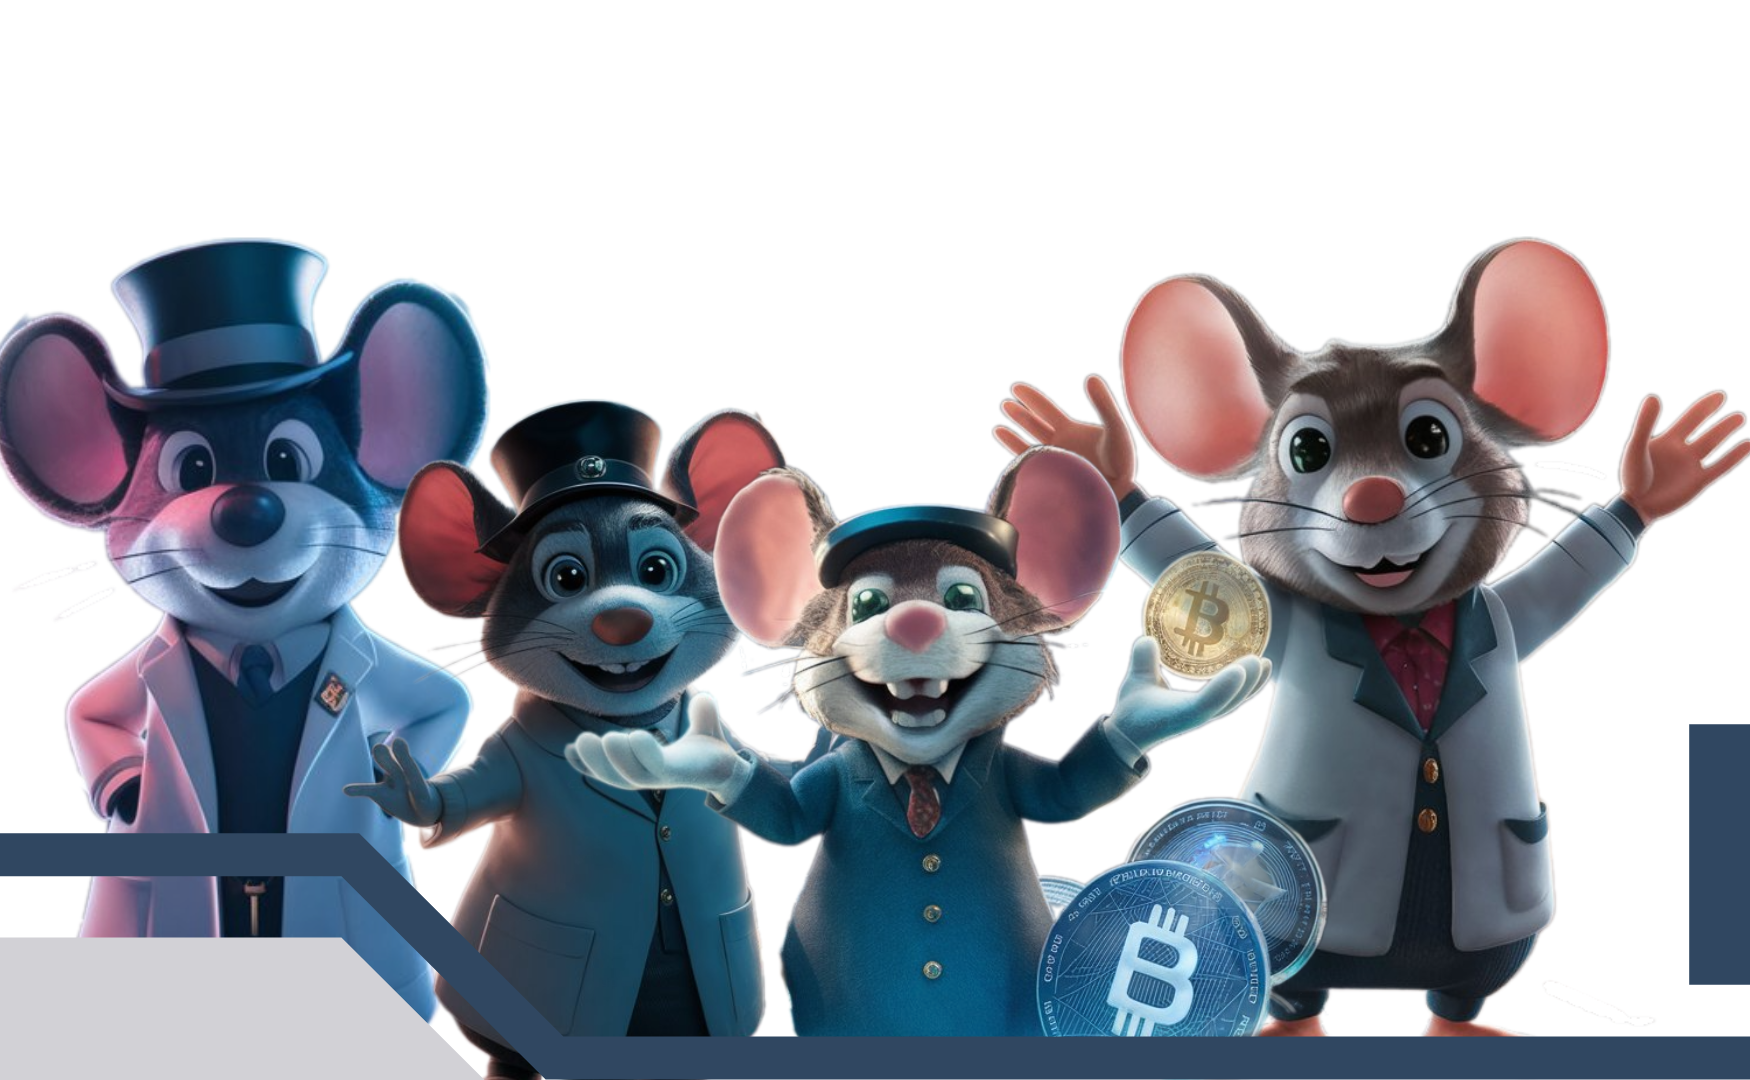
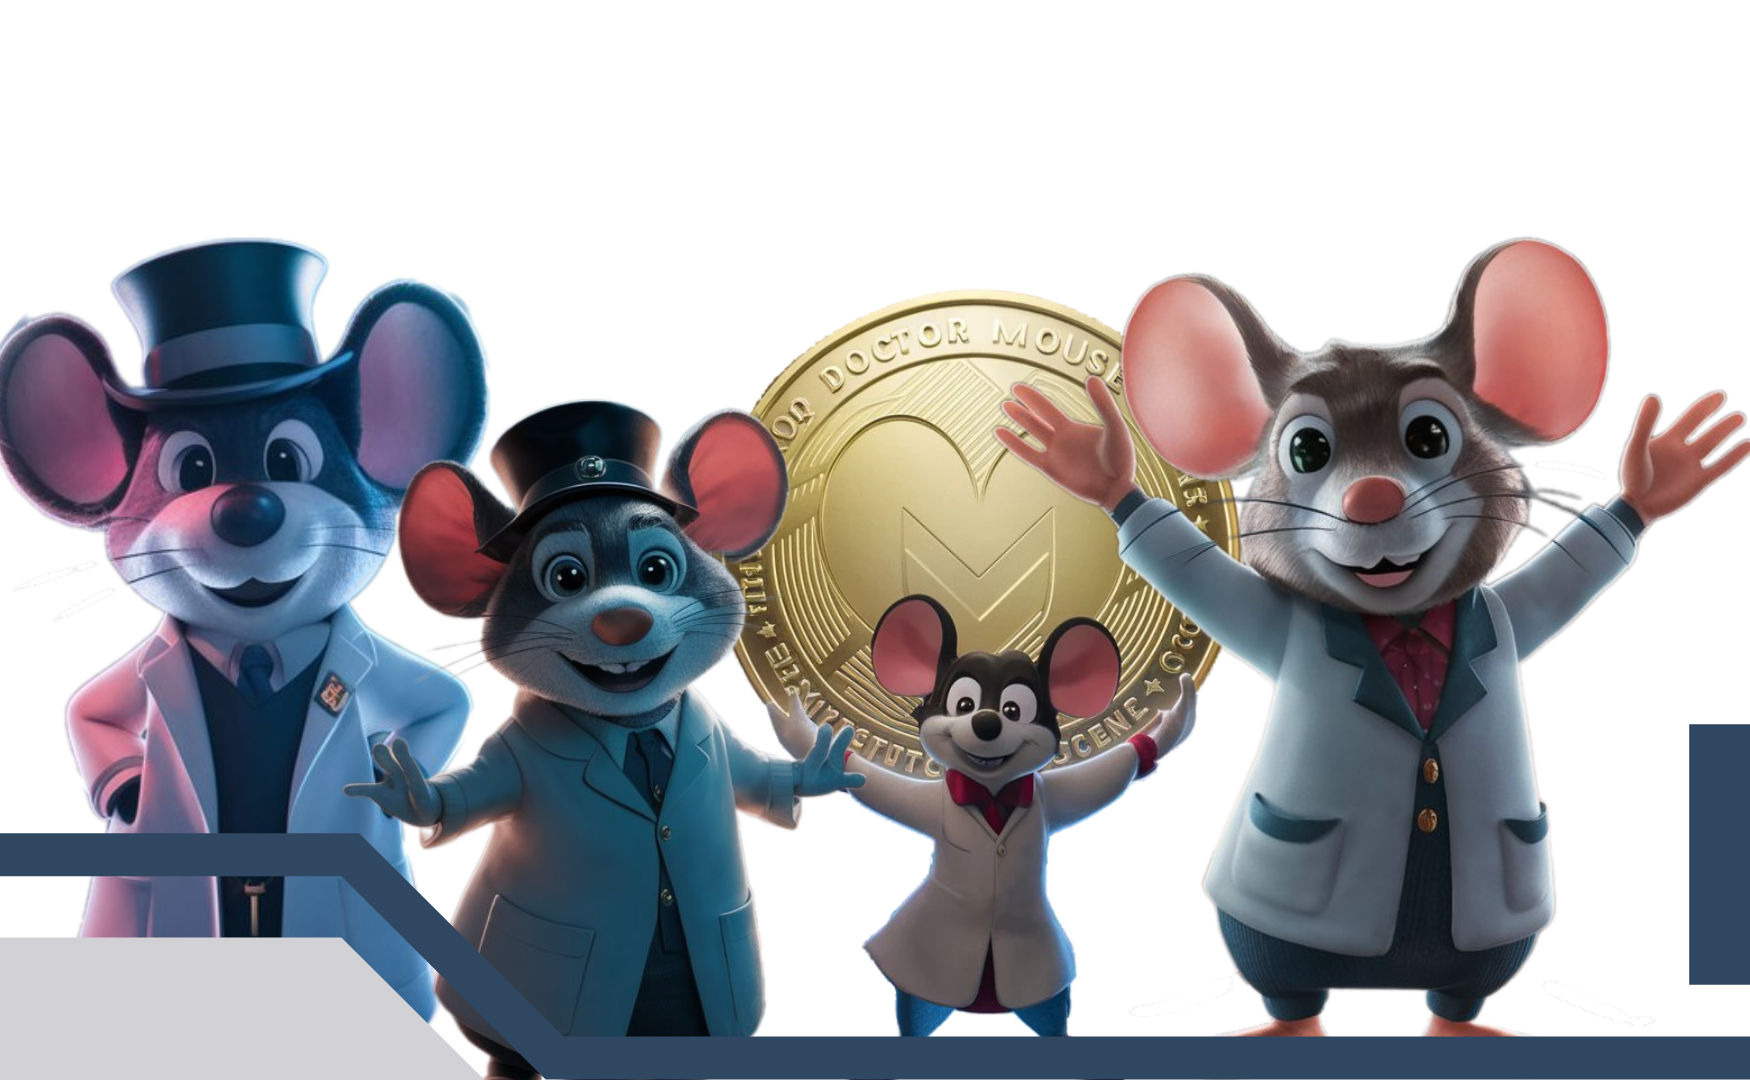
updated desing

Changed region(s): [[0.3086, 0.2444, 0.7714, 0.9778]]

diff --git a/src/Components/DoctorMouseLandingPage.jsx b/src/Components/DoctorMouseLandingPage.jsx
@@ -2,7 +2,10 @@ import 'tailwindcss/tailwind.css';
 import '../App.css';
 import '../thirdPage.css'
 import { FontAwesomeIcon } from '@fortawesome/react-fontawesome';
-import { faTelegram, faYoutube, faRedditAlien, faLinkedin, faInstagram, faFacebook, faTwitter } from '@fortawesome/free-brands-svg-icons';
+import { faTelegram, faXTwitter } from '@fortawesome/free-brands-svg-icons';
+import dexScreenerIcon from '../assets/dexScreenerIcon.png'
+import solScanIcon from '../assets/solanaIcon.png'
+import solScanIconTop from '../assets/solScanIconTop.png'
 import BackgroundVideo from '../assets/Videos/BackgroundVideo.mp4';
 import Logo from '../assets/rmFrh2fKMNYODW4ac7Em5-transformed.png'; // Adjust the path to your logo file
 import QRCode from '../assets/QRCode.png'; // Adjust the path to your QR code image file
@@ -10,7 +13,9 @@ import QRCodeButtom from '../assets/QRCodeButtom.png'; // Adjust the path to you
 import BackgroundImagePage3 from '../assets/backgroundImagePage3.svg'
 import backgroundImage from '../assets/secondpageBgImage.svg'; // Ensure to provide the correct path
 import MousesIcon from '../assets/mousesIcons.png'; // Ensure to provide the correct path
-import characterImage5 from '../assets/character15.png'; // Ensure to provide the correct path
+import doctormouseCircularAnimation from '../assets/doctormousecoinpresenting (2).png'; // Ensure to provide the correct path
+import characterImage5 from '../assets/characterpng8.png'; // Ensure to provide the correct path
+import characterImage6 from '../assets/characterpng7.png'; // Ensure to provide the correct path
 import teteCoinLogo from '../assets/coinImage.png';
 import fourthpagebgImage from '../assets/fourthpagebgimage.svg'
 import fifthpagebgImage from '../assets/fifthpagebgimage.jpeg'
@@ -24,7 +29,7 @@ function DoctorMouseLandingPage() {
 
 
     const [certificatecCopied, setCertificateCopied] = useState(false);
-    const certificateCode = 'GAVXJIJDVOVFQXOGKSTEXV7XGNK5WDSBNGCHNUUKQ';
+    const certificateCode = 'EVS9EoZoxaYZnk8k7jCukfkgG8ZtiFwVtDHRLV4gy8Uz ';
 
     const copyToClipboard = () => {
         navigator.clipboard.writeText(certificateCode).then(() => {
@@ -49,7 +54,7 @@ function DoctorMouseLandingPage() {
                     style={{ perspective: '500px' }}
                 >
                     <img
-                        src={characterImage5}
+                        src={doctormouseCircularAnimation}
                         alt="Coin Video"
                         className="w-full h-full object-contain transform shadow-lg animate-spin-slow bg-cool-500 rounded-full"
                         style={{
@@ -142,19 +147,25 @@ function DoctorMouseLandingPage() {
             <div className='h-32 w-full bg-gradient-to-r from-gray-800 to-black flex justify-between items-center p-6 z-50'>
                 <div className='flex space-x-4'>
                     <div className="flex items-center justify-center space-x-4">
-                        <a href="https://twitter.com" target="_blank" rel="noopener noreferrer" className="transform hover:scale-110 transition-transform duration-300">
+                        <a href="https://x.com/DrMouseCoin?t=4LV24L3j1VWhgtepFaDB3A&s=09" target="_blank" rel="noopener noreferrer" className="transform hover:scale-110 transition-transform duration-300">
                             <div className="bg-gradient-to-br from-blue-900 via-blue-500 to-blue-300 rounded-full p-2 md:p-5 lg:px-6 shadow-lg image-3d">
-                                <i className="fab fa-twitter text-white text-xl"></i>
+                                <i className="fa-brands fa-x-twitter text-xl text-white"></i>
                             </div>
                         </a>
-                        <a href="https://facebook.com" target="_blank" rel="noopener noreferrer" className="transform hover:scale-110 transition-transform duration-300">
+                        <a href="https://t.me/+Cv2pmIa9OI0wMDVh" target="_blank" rel="noopener noreferrer" className="transform hover:scale-110 transition-transform duration-300">
                             <div className="bg-gradient-to-br from-blue-900 via-blue-500 to-blue-300 rounded-full p-2 md:p-5 lg:px-6 shadow-lg image-3d">
-                                <i className="fab fa-facebook text-white text-xl"></i>
+                                <i className="fa-brands fa-telegram text-xl text-white"></i>
                             </div>
                         </a>
-                        <a href="https://instagram.com" target="_blank" rel="noopener noreferrer" className="transform hover:scale-110 transition-transform duration-300">
+                        <a href="https://dexscreener.com/solana/apgie2rbaezrlbo1yur8cpcav6zfuy6dzcy9yebtezfs" target="_blank" rel="noopener noreferrer" className="transform hover:scale-110 transition-transform duration-300">
                             <div className="bg-gradient-to-br from-blue-900 via-blue-500 to-blue-300 rounded-full p-2 md:p-5 lg:px-6 shadow-lg image-3d">
-                                <i className="fab fa-instagram text-white text-xl"></i>
+                                <img src={dexScreenerIcon} className=' h-6 w-6' ></img>
+
+                            </div>
+                        </a>
+                        <a href="https://solscan.io/token/EVS9EoZoxaYZnk8k7jCukfkgG8ZtiFwVtDHRLV4gy8Uz" target="_blank" rel="noopener noreferrer" className="transform hover:scale-110 transition-transform duration-300">
+                            <div className="bg-gradient-to-br from-blue-900 via-blue-500 to-blue-300 rounded-full p-2 md:p-5 lg:px-6 shadow-lg image-3d">
+                                <img src={solScanIconTop} className='h-8 w-8 text-white'  ></img>
                             </div>
                         </a>
                     </div>
@@ -189,7 +200,7 @@ function DoctorMouseLandingPage() {
                     </div>
                     <div className="p-4 border border-white bg-black bg-opacity-60 z-20 mb-8">
                         <img src={teteCoinLogo} alt="DCOTOR COIN Logo" className="mx-auto mb-4 w-24 h-24" />
-                        <p className="text-white">
+                        <p className="text-white font-bungee">
                             Meet Dr Mouse, the game-changing meme coin designed to transform the
                             healthcare facility of transactions! Faster payments?Check.Unmatched
                             transparency? Check.Bulletproof security? Check. Dr Mouse is laeding
@@ -208,17 +219,16 @@ function DoctorMouseLandingPage() {
                     style={{ backgroundImage: `url(${BackgroundImagePage3})` }}
                 ></div>
 
-                <div className="relative w-full max-w-4xl z-10 p-4">
-                    <h1 className="text-3xl font-bold mt-8 z-10 font-pressStart text-center mb-10 text-yellow-500">COIN STAGE</h1>
+                <div className="relative w-full max-w-4xl z-20 p-4">
+                    <h1 className="text-4xl font-bold mt-8 z-20 font-pressStart text-center mb-10 text-yellow-500">COIN STAGE</h1>
 
-                    <div className="grid grid-cols-1 md:grid-cols-2 gap-8 text-center relative z-20">
+                    <div className="grid grid-cols-1 gap-8 text-center relative z-20 md:grid-cols-2">
                         <div className="p-4 border border-white bg-black bg-opacity-60">
                             <h2 className="text-xl font-bold font-bungee text-yellow-500">STAGE 1</h2>
                             <h2 className="text-xl font-bold font-bungee text-yellow-500">Token Creation</h2>
                             <p>Dr Mouse was developed using cutting-edge blockchain technology, creating a secure,
                                 scalable, and reliable token. It's a robust digital asset designed to revolutionize
                                 healthcare transactions."</p>
-
                         </div>
                         <div className="p-4 border border-white bg-black bg-opacity-60">
                             <h2 className="text-xl font-bold font-bungee text-yellow-500">STAGE 2</h2>
@@ -226,9 +236,8 @@ function DoctorMouseLandingPage() {
                             <p>Our innovative marketing strategies, including social media campaigns,
                                 influencer partnerships, and viral content, keep Dr Mouse at the
                                 forefront of the meme coin revolution."</p>
-
                         </div>
-                        <div className="p-4 border border-white bg-black bg-opacity-60 ">
+                        <div className="p-4 border border-white bg-black bg-opacity-60 md:col-span-2 md:w-1/2 md:mx-auto">
                             <h2 className="text-xl font-bold font-bungee text-yellow-500">STAGE 3</h2>
                             <h2 className="text-xl font-bold font-bungee text-yellow-500">Healthcare Facility</h2>
                             <p>Dr Mouse transforms healthcare transactions with decentralized, transparent,
@@ -236,15 +245,16 @@ function DoctorMouseLandingPage() {
                                 accurate transactions for all."</p>
                         </div>
                     </div>
-                    <div className="absolute inset-0 flex items-center justify-center w-[100%] h-[100%] z-0">
+                    <div className="absolute inset-0 flex items-center justify-center w-full h-full z-0">
                         <img
-                            src={characterImage5}
+                            src={characterImage6}
                             alt="Character"
-                            className="w-80 h-full object-cover opacity-50 transform scale-125 mt-0"
+                            className="w-80 h-full object-cover opacity-80 transform scale-125 mt-32"
                         />
                     </div>
-
                 </div>
+
+
             </div>
 
 
@@ -270,8 +280,7 @@ function DoctorMouseLandingPage() {
                     <div className="bg-gradient-to-br from-gray-700 to-gray-900 p-5 rounded-lg shadow-md border-4 border-yellow-500 transform skew-y-3 hover:skew-y-0 transition-transform duration-300 ease-in-out h-52">
                         <h2 className="text-lg md:text-xl lg:text-2xl font-bold text-center text-yellow-400">0% TAX + FAIR LAUNCH</h2>
                         <p className="text-yellow-200 mt-3 text-sm md:text-base lg:text-lg text-center">
-                            NO TAX ON BUYING OR SELLING WITH A STEALTH LAUNCH VIA ORION TOOLS ON RAYDIUM TO DETER WHALES AND BOTS. COMMUNITY. PROFIT. REPEAT!
-                        </p>
+                            NO TAX ON BUYING OR SELLING                        </p>
                     </div>
 
                     <div className="bg-gradient-to-br from-gray-700 to-gray-900 p-5 rounded-lg shadow-md border-4 border-blue-500 transform skew-y-3 hover:skew-y-0 transition-transform duration-300 ease-in-out h-52">
@@ -282,11 +291,7 @@ function DoctorMouseLandingPage() {
                     </div>
                 </div>
 
-                <div className="relative z-10 text-center mt-10">
-                    <div className="inline-block bg-gray-200 p-3 rounded-lg border-4 border-orange-600 shadow-lg transform hover:scale-105 transition-transform duration-300 ease-in-out">
-                        <p className="text-gray-900 text-sm md:text-base lg:text-lg">#TETE / CA:GAYVXJJDVOFQXQKD5C7X7VGHXK5WBSIDCDNVKUQ</p>
-                    </div>
-                </div>
+
             </div>
 
 
@@ -313,37 +318,34 @@ function DoctorMouseLandingPage() {
                         </button>
                     </div>
                 </div>
-
-                <div className="grid grid-cols-2 sm:grid-cols-3 gap-10 mt-10 mx-5 relative">
+                <div className="grid grid-cols-1 sm:grid-cols-1 md:grid-cols-3 gap-10 mt-10 mx-5 relative">
                     <div className="hexagon flex flex-col items-center justify-center text-center text-white p-5 ">
                         <img src={mouseIcon} alt="Phantom Logo" className="w-12 h-12" />
-                        <p className="mt-2"><b className='text-xl'>1.</b> Create a Solana based wallet in Phantom or your choice of app.</p>
+                        <p className="mt-2">
+                            <b className='text-xl'>1.</b> Create a Solana based wallet in Phantom or your choice of app.
+                        </p>
                     </div>
 
-                    <div className="hexagon flex flex-col items-center justify-center text-center text-white p-5  ">
+                    <div className="hexagon flex flex-col items-center justify-center text-center text-white p-5">
                         <img src={solanaPng} alt="Solana Logo" className="w-12 h-12" />
                         <p className="mt-2">2. Buy Solana from a trusted CEX or DEX and transfer to wallet.</p>
                     </div>
 
                     <div className="hexagon flex flex-col items-center justify-center text-center text-white p-5">
                         <img src={teteCoinLogo} alt="Coin Logo" className="w-12 h-12" />
-                        <p className="mt-2">3. Swap it all for some sweet, sweet $DOCTOR COIN on your favorite DEX!</p>
+                        <p className="mt-2">3. Click on Buy now and swap it all for some Dr mouse coin on your favorite DEXI</p>
                     </div>
 
-                    <div className="hexagon flex flex-col items-center justify-center text-center text-white p-5">
-                        <p className="text-lg">🚀 HODL and grow bags like the alpha amphibian you are!</p>
+                    <div className="col-span-1 md:col-span-3 flex justify-center">
+                        <button className="buy-now-button">
+                            <img src={mouseIcon} alt="Mouse Icon" />
+                            <a href='https://raydium.io/swap/?outputMint=EVS9EoZoxaYZnk8k7jCukfkgG8ZtiFwVtDHRLV4gy8Uz&inputMint=sol' target="_blank" rel="noopener noreferrer" className='text-white font-bold'>
+                                Buy Now
+                            </a>
+                        </button>
                     </div>
-
-                    <div className="hexagon flex flex-col items-center justify-center text-center text-white p-5">
-                        <p className="text-lg">🐸 Get riches that smell like vanilla.</p>
-                    </div>
-
-                    <img
-                        src={mouseIcon}
-                        alt="Frog"
-                        className="hidden lg:block absolute right-0 top-1/2 transform -translate-y-1/2 w-40 h-40 mt-16 image-3d"
-                    />
                 </div>
+
 
                 <footer className="footer w-full mt-10 bg-gray-800 text-white py-10">
                     <div className=" mx-auto md:flex md:flex-row justify-between items-center">
@@ -351,27 +353,19 @@ function DoctorMouseLandingPage() {
                         {/* Social Media Icons */}
                         <div className="footer-icons flex flex-col items-center mt-5 space-y-4">
                             <div className="flex flex-row justify-center space-x-4 icon-3d">
-                                <a href="https://twitter.com" target="_blank" rel="noopener noreferrer">
-                                    <FontAwesomeIcon icon={faTwitter} size="lg" />
+                                <a href="https://x.com/DrMouseCoin?t=4LV24L3j1VWhgtepFaDB3A&s=09" target="_blank" rel="noopener noreferrer">
+                                    <FontAwesomeIcon icon={faXTwitter} size="md" />
                                 </a>
-                                <a href="https://facebook.com" target="_blank" rel="noopener noreferrer">
-                                    <FontAwesomeIcon icon={faFacebook} size="lg" />
-                                </a>
-                                <a href="https://instagram.com" target="_blank" rel="noopener noreferrer">
-                                    <FontAwesomeIcon icon={faInstagram} size="lg" />
-                                </a>
-                                <a href="https://linkedin.com" target="_blank" rel="noopener noreferrer">
-                                    <FontAwesomeIcon icon={faLinkedin} size="lg" />
-                                </a>
-                                <a href="https://telegram.org" target="_blank" rel="noopener noreferrer">
+                                <a href="https://t.me/+Cv2pmIa9OI0wMDVh" target="_blank" rel="noopener noreferrer">
                                     <FontAwesomeIcon icon={faTelegram} size="lg" />
                                 </a>
-                                <a href="https://youtube.com" target="_blank" rel="noopener noreferrer">
-                                    <FontAwesomeIcon icon={faYoutube} size="lg" />
+                                <a href="https://solscan.io/token/EVS9EoZoxaYZnk8k7jCukfkgG8ZtiFwVtDHRLV4gy8Uz" target="_blank" rel="noopener noreferrer" >
+                                    <img src={solScanIcon} className='h-6 w-6'  ></img>
                                 </a>
-                                <a href="https://reddit.com" target="_blank" rel="noopener noreferrer">
-                                    <FontAwesomeIcon icon={faRedditAlien} size="lg" />
+                                <a href="https://dexscreener.com/solana/apgie2rbaezrlbo1yur8cpcav6zfuy6dzcy9yebtezfs" target="_blank" rel="noopener noreferrer">
+                                    <img src={dexScreenerIcon} className=' h-6 w-6' ></img>
                                 </a>
+
                             </div>
                             <p className="text-sm text-3d">© COPYRIGHT DOCTOR COIN 2024</p>
                             <img src={QRCodeButtom} alt="QR Code" className="w-40 h-40 mx-auto mb-2  image-3d" />

diff --git a/src/App.css b/src/App.css
@@ -149,10 +149,10 @@ body {
 
 .hexagon {
   position: relative;
-  width: 200px; /* Adjust as needed */
-  height: 115px; /* Adjust as needed */
+  width: 210px; /* Adjust as needed */
+  height: 135px; /* Adjust as needed */
   background-color: rgba(255, 255, 255, 0.2); /* Semi-transparent white */
-  margin: 57.5px 0;
+  margin: 61.5px 0;
   transform: rotateY(-15deg) rotateX(-15deg);
   perspective: 1000px; /* Perspective for 3D effect */
 }
@@ -269,4 +269,51 @@ body {
   color: #D97706; /* Tailwind's yellow-400 color */
   border-radius: 0.5rem; /* Optional: adds rounded corners */
   margin: 1rem;
+}
+
+/*buy now button*/
+.buy-now-button {
+  font-family: 'Poppins', sans-serif;
+  display: inline-flex;
+  align-items: center;
+  justify-content: center;
+  padding: 15px 30px;
+  margin-top: 20px;
+  color: #fff;
+  background: linear-gradient(145deg, #ff7e36, #ff5722);
+  border: none;
+  border-radius: 8px;
+  text-transform: uppercase;
+  font-size: 16px;
+  cursor: pointer;
+  box-shadow: 0 10px 15px rgba(0, 0, 0, 0.1);
+  position: relative;
+  transition: transform 0.1s, box-shadow 0.1s, background 0.3s;
+}
+
+.buy-now-button:active {
+  transform: translateY(5px);
+  box-shadow: 0 5px 10px rgba(0, 0, 0, 0.1);
+}
+
+.buy-now-button::before {
+  content: '';
+  position: absolute;
+  top: 0;
+  left: 0;
+  right: 0;
+  bottom: 0;
+  background: linear-gradient(145deg, rgba(255, 255, 255, 0.2), rgba(255, 255, 255, 0));
+  border-radius: 8px;
+  pointer-events: none;
+}
+
+.buy-now-button img {
+  margin-right: 10px;
+  width: 24px;
+  height: 24px;
+}
+
+.buy-now-button:hover {
+  background: linear-gradient(145deg, #ff914c, #ff6a2d);
 }
